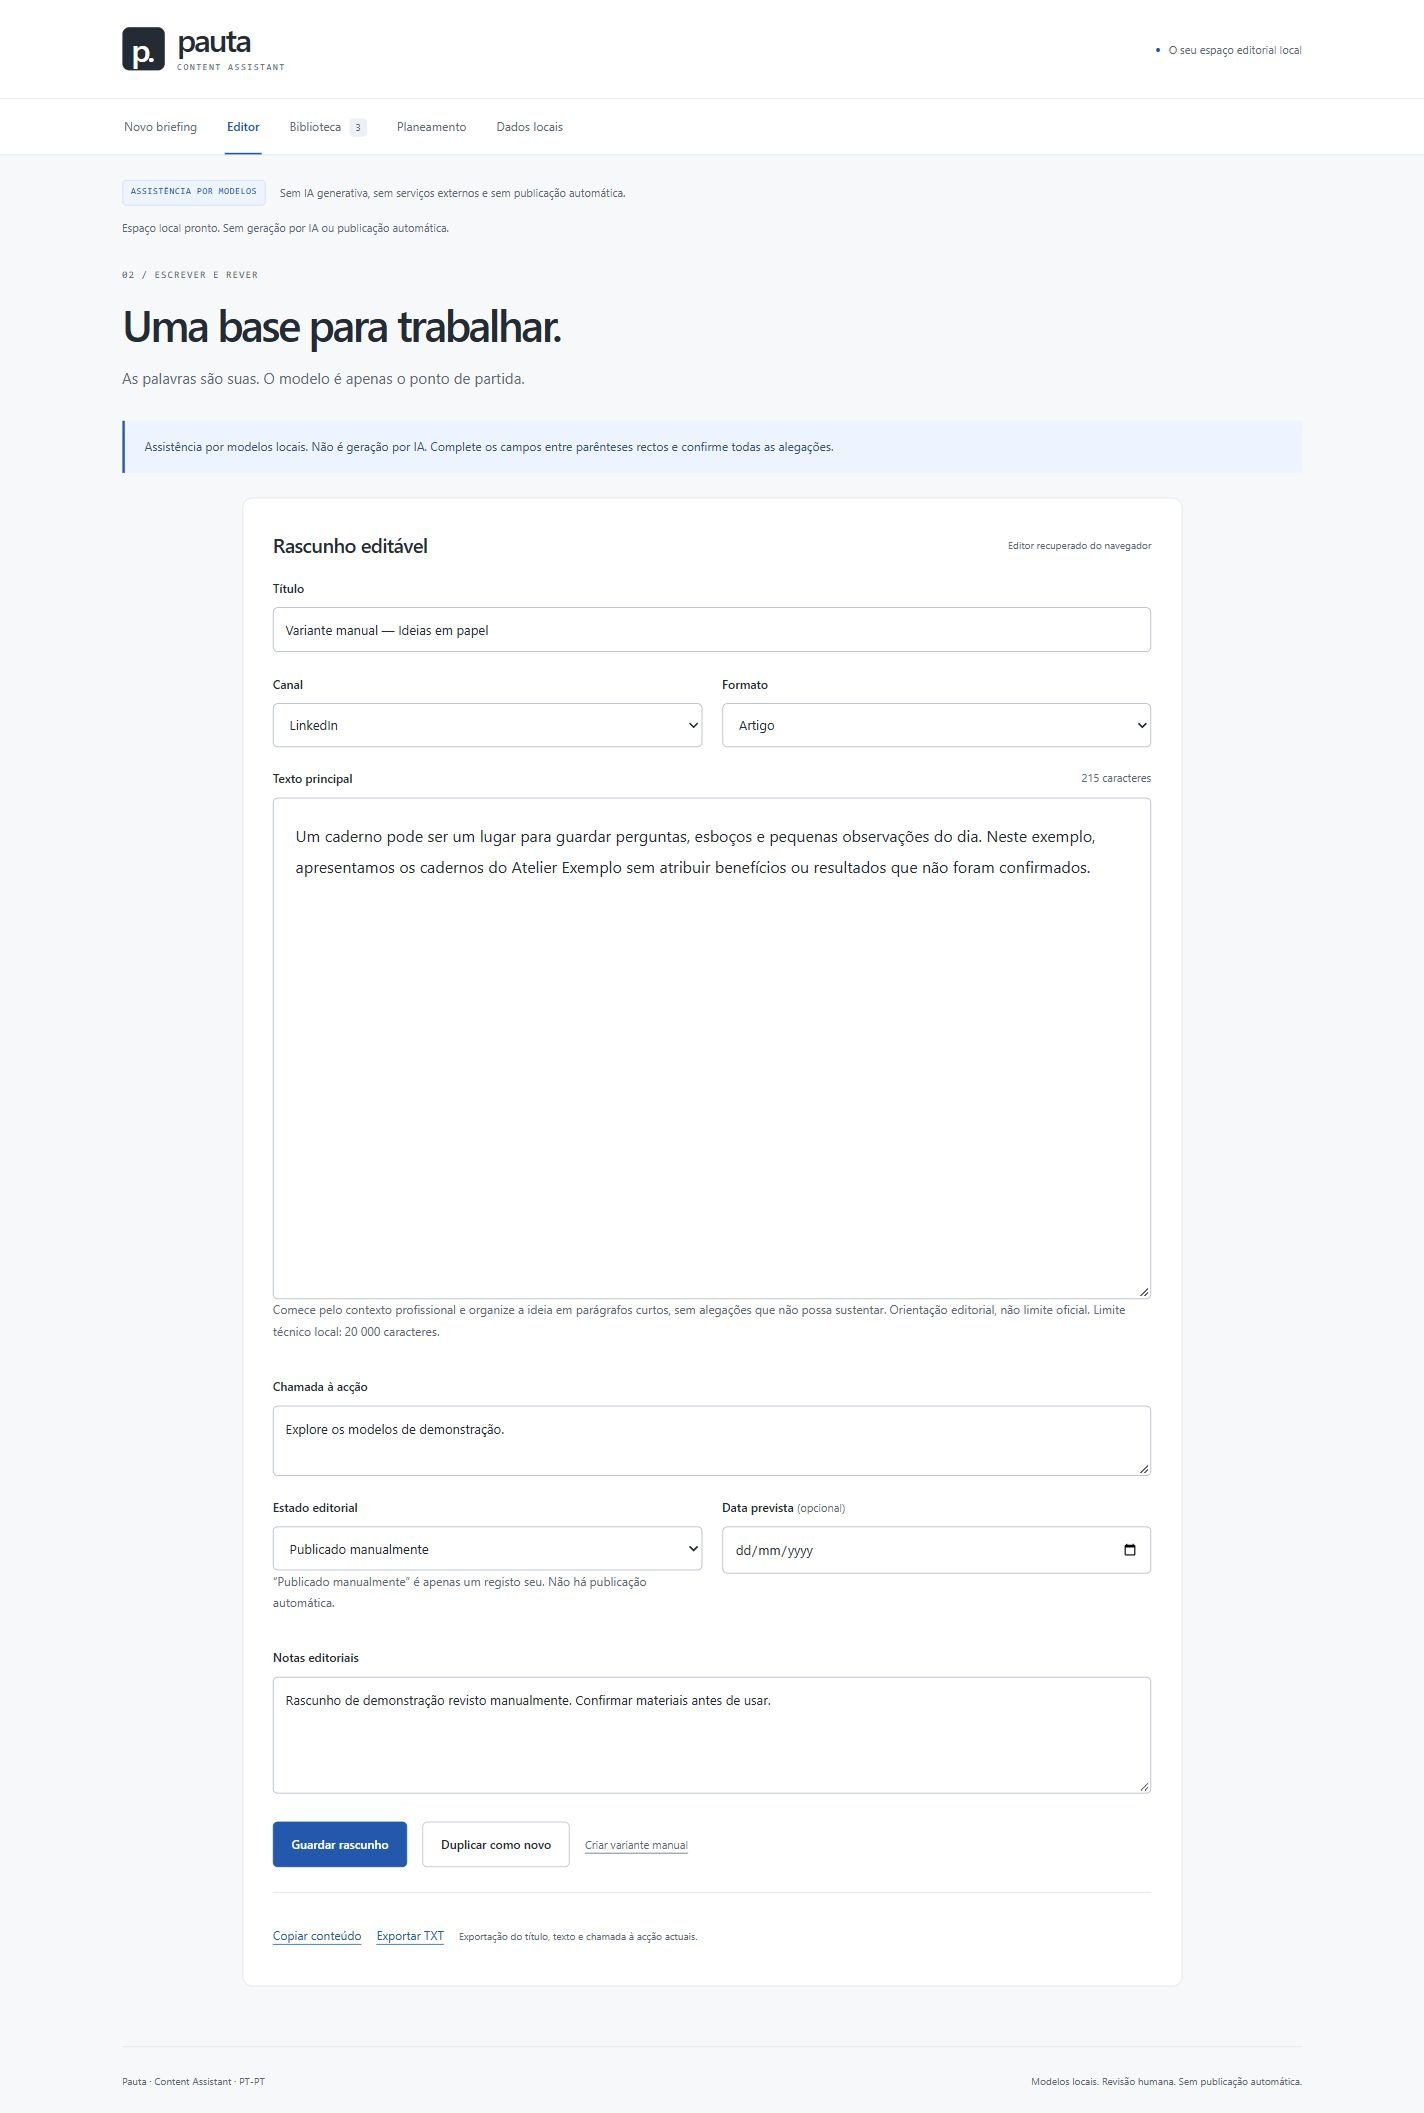
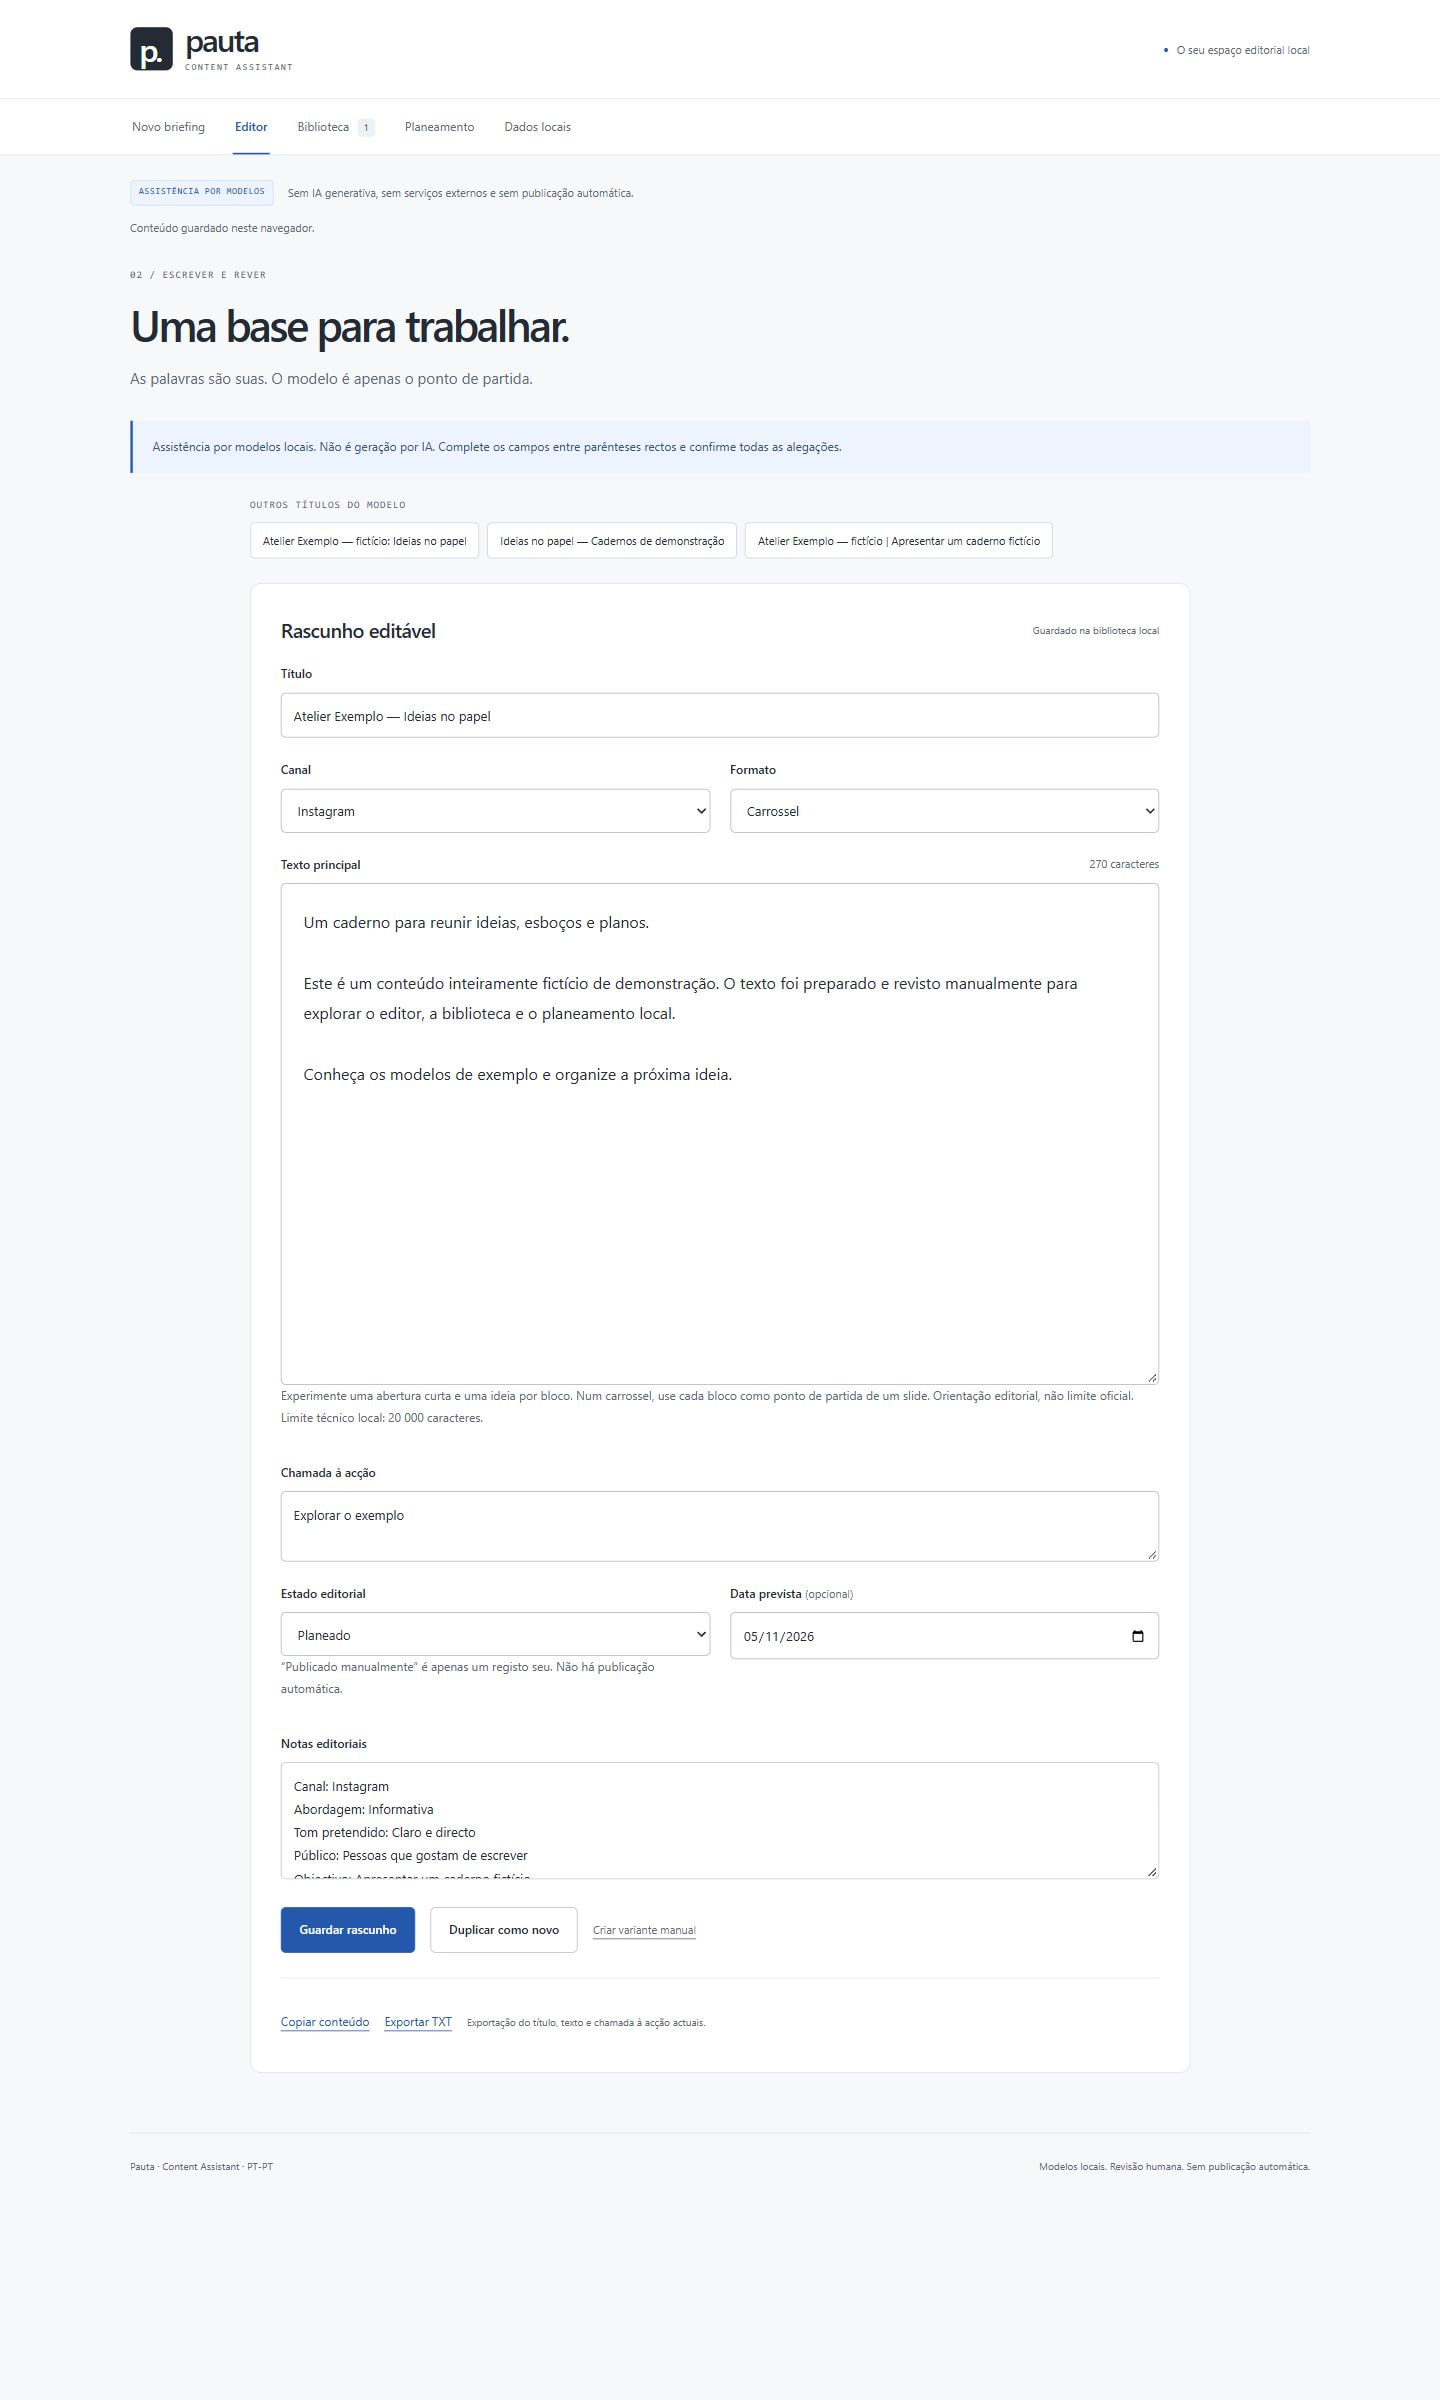
Improve project case study screenshot galleries

diff --git a/src/content/projects/pt/painel-de-marketing.md b/src/content/projects/pt/painel-de-marketing.md
@@ -14,7 +14,13 @@ tags:
   - Node.js
 images:
   - src: /images/projects/prisma-dashboard.jpg
-    alt: Dashboard real PRISMA com aviso de dados fictícios, oito indicadores, evolução temporal, canais e tabela de campanhas.
+    width: 1440
+    height: 2400
+    alt: "Visão geral do PRISMA com oito indicadores, gráficos, comparação de canais e tabela de sete campanhas fictícias."
+  - src: /images/projects/prisma-filtered.jpg
+    width: 1440
+    height: 2400
+    alt: "PRISMA com filtro Pesquisa paga e Últimos 7 dias aplicados, indicadores recalculados e tabela de duas campanhas ordenada por nome."
 ---
 
 ## Contexto e objectivos
@@ -50,7 +56,7 @@ Os filtros combinam-se, têm atalhos e reposição. Datas inválidas impedem apr
 
 Dados, cálculos, formatação, gráficos, apresentação e exportação são módulos distintos. As funções analíticas não dependem do DOM. HTML, CSS e JavaScript modular são servidos por ferramentas nativas do Node.js, sem dependências npm ou biblioteca de gráficos.
 
-**19 testes automatizados aprovados.** Incluem fórmulas, agregação ponderada, integridade dos dados, filtros, coerência entre vistas, ordenação, denominadores zero, CSV e servidor. Os registos de verificação documentam interacções no browser, download real e responsividade; a captura foi recolhida no preview local.
+**19 testes automatizados aprovados.** Incluem fórmulas, agregação ponderada, integridade dos dados, filtros, coerência entre vistas, ordenação, denominadores zero, CSV e servidor. Os registos de verificação documentam interacções no browser, download real e responsividade; as capturas da demonstração pública mostram a visão geral e uma selecção filtrada.
 
 ## Limitações
 

diff --git a/src/content/projects/pt/assistente-de-conteudo.md b/src/content/projects/pt/assistente-de-conteudo.md
@@ -14,7 +14,13 @@ tags:
   - Node.js
 images:
   - src: /images/projects/pauta-editor.jpg
-    alt: Editor real do Pauta com texto fictício, campos editáveis, aviso de assistência por modelos e opções de estado e exportação.
+    width: 1440
+    height: 2400
+    alt: "Editor do Pauta com conteúdo fictício, modelos determinísticos sem IA generativa, estado Planeado, data prevista e exportação TXT."
+  - src: /images/projects/pauta-library.jpg
+    width: 1440
+    height: 2400
+    alt: "Biblioteca do Pauta com conteúdo fictício planeado, pesquisa, filtros de canal e estado, ordenação, selecção CSV e acções de gestão."
 ---
 
 ## Contexto e problema
@@ -47,7 +53,7 @@ Um repositório versionado em `localStorage` preserva a biblioteca, o briefing e
 
 **24 testes automatizados aprovados.** Cobrem briefing, influência dos campos, determinismo, criação/actualização, cópias, estados, pesquisa, datas, exportação, importação, corrupção, quota e conflitos através de um adaptador de armazenamento em memória.
 
-Os registos de verificação documentam o fluxo completo no browser, downloads reais, confirmação de remoção e restauração JSON. A captura mostra o editor no preview local com conteúdo fictício. Testes de armazenamento em memória não equivalem a provocar todas as falhas num browser real.
+Os registos de verificação documentam o fluxo completo no browser, downloads reais, confirmação de remoção e restauração JSON. As capturas mostram o editor e a biblioteca da demonstração pública com conteúdo fictício. Testes de armazenamento em memória não equivalem a provocar todas as falhas num browser real.
 
 ## Limitações e disponibilidade
 

diff --git a/src/content/projects/pt/site-de-apresentacao.md b/src/content/projects/pt/site-de-apresentacao.md
@@ -14,7 +14,13 @@ tags:
   - Node.js
 images:
   - src: /images/projects/forma-grao-home.jpg
-    alt: Homepage real do Forma & Grão, com aviso de marca fictícia, apresentação dos serviços e ilustração original de mobiliário.
+    width: 1440
+    height: 2720
+    alt: "Homepage do Forma & Grão com apresentação do atelier fictício, ilustração de mobiliário, serviços e percurso de contacto."
+  - src: /images/projects/forma-grao-services.jpg
+    width: 1440
+    height: 2720
+    alt: "Página de serviços do Forma & Grão, com mobiliário por medida, restauro e planeamento de interiores, acesso ao pedido de exemplo."
 ---
 
 ## Contexto e problema
@@ -48,7 +54,7 @@ O Node.js nativo gera os ficheiros estáticos e serve o preview. Não há depend
 
 **12 testes automatizados aprovados.** A suite cobre validação, limites, normalização, resumo, rotas, recursos, âncoras, estrutura acessível e comportamento do servidor local.
 
-Os registos de verificação da aplicação documentam ensaios do formulário e do ficheiro descarregado, teclado e quatro larguras de ecrã. A captura desta página foi obtida no preview local. Testes técnicos e revisão visual não equivalem a testes com utilizadores ou a uma auditoria integral de acessibilidade.
+Os registos de verificação da aplicação documentam ensaios do formulário e do ficheiro descarregado, teclado e quatro larguras de ecrã. As capturas mostram a homepage e a página de serviços da demonstração pública. Testes técnicos e revisão visual não equivalem a testes com utilizadores ou a uma auditoria integral de acessibilidade.
 
 ## Limitações e disponibilidade
 

diff --git a/src/content/projects/en/marketing-dashboard.md b/src/content/projects/en/marketing-dashboard.md
@@ -14,7 +14,13 @@ tags:
   - Node.js
 images:
   - src: /images/projects/prisma-dashboard.jpg
-    alt: Actual PRISMA dashboard with a synthetic-data notice, eight metrics, time series, channel comparisons and campaign table.
+    width: 1440
+    height: 2400
+    alt: "PRISMA overview with eight metrics, charts, channel comparisons and a table of seven fictional campaigns."
+  - src: /images/projects/prisma-filtered.jpg
+    width: 1440
+    height: 2400
+    alt: "PRISMA with Paid search and Last 7 days filters applied, recalculated metrics and two campaigns sorted by name."
 ---
 
 ## Context and objectives
@@ -50,7 +56,7 @@ Filters can be combined, with date shortcuts and a reset option. Invalid dates p
 
 Data, calculations, formatting, charts, presentation and export are separate modules. Analytical functions do not depend on the DOM. HTML, CSS and JavaScript modules are served by native Node.js tools, without npm dependencies or a charting library.
 
-**19 automated tests passed.** They cover formulas, weighted aggregation, data integrity, filters, cross-view consistency, sorting, zero denominators, CSV and the server. Verification records document browser interactions, a real download and responsive checks; the capture was taken from the local preview.
+**19 automated tests passed.** They cover formulas, weighted aggregation, data integrity, filters, cross-view consistency, sorting, zero denominators, CSV and the server. Verification records document browser interactions, a real download and responsive checks; the public demonstration captures show the overview and a filtered selection.
 
 ## Limitations
 

diff --git a/src/content/projects/en/content-assistant.md b/src/content/projects/en/content-assistant.md
@@ -14,7 +14,13 @@ tags:
   - Node.js
 images:
   - src: /images/projects/pauta-editor.jpg
-    alt: Actual Pauta editor showing fictional text, editable fields, the template-assistance notice, status controls and exports.
+    width: 1440
+    height: 2400
+    alt: "Pauta editor with fictional content, deterministic templates without generative AI, Planned status, a scheduled date and TXT export."
+  - src: /images/projects/pauta-library.jpg
+    width: 1440
+    height: 2400
+    alt: "Pauta library with fictional planned content, search, channel and status filters, sorting, CSV selection and management actions."
 ---
 
 ## Context and problem
@@ -47,7 +53,7 @@ A versioned `localStorage` repository preserves the library, brief and work-in-p
 
 **24 automated tests passed.** They cover briefs, input influence, determinism, creation/updates, copies, statuses, search, dates, exports, imports, corruption, quota and conflicts using an in-memory storage adapter.
 
-Verification records document the complete browser journey, actual downloads, deletion confirmation and JSON restoration. The capture shows the local editor with fictional content. In-memory storage tests do not mean every failure has been induced in a real browser.
+Verification records document the complete browser journey, actual downloads, deletion confirmation and JSON restoration. The captures show the public demonstration editor and library with fictional content. In-memory storage tests do not mean every failure has been induced in a real browser.
 
 ## Limitations and availability
 

diff --git a/src/content/projects/en/business-website.md b/src/content/projects/en/business-website.md
@@ -14,7 +14,13 @@ tags:
   - Node.js
 images:
   - src: /images/projects/forma-grao-home.jpg
-    alt: Actual Forma & Grão homepage showing the fictional-brand notice, service introduction and original furniture illustration.
+    width: 1440
+    height: 2720
+    alt: "Forma & Grão homepage with the fictional workshop introduction, furniture illustration, services and contact journey."
+  - src: /images/projects/forma-grao-services.jpg
+    width: 1440
+    height: 2720
+    alt: "Forma & Grão services page showing bespoke furniture, restoration and interior planning, links to a sample request."
 ---
 
 ## Context and problem
@@ -48,7 +54,7 @@ Native Node.js tools generate static files and serve the preview. There are no n
 
 **12 automated tests passed.** The suite covers validation, boundaries, normalisation, the summary, routes, assets, anchors, accessible structure and local-server behaviour.
 
-The application's verification record also documents form/download checks, keyboard use and four viewport widths. The capture on this page was taken from the local preview. Technical tests and visual inspection do not constitute user research or a complete accessibility audit.
+The application's verification record also documents form/download checks, keyboard use and four viewport widths. The captures show the public demonstration homepage and services page. Technical tests and visual inspection do not constitute user research or a complete accessibility audit.
 
 ## Limitations and availability
 
